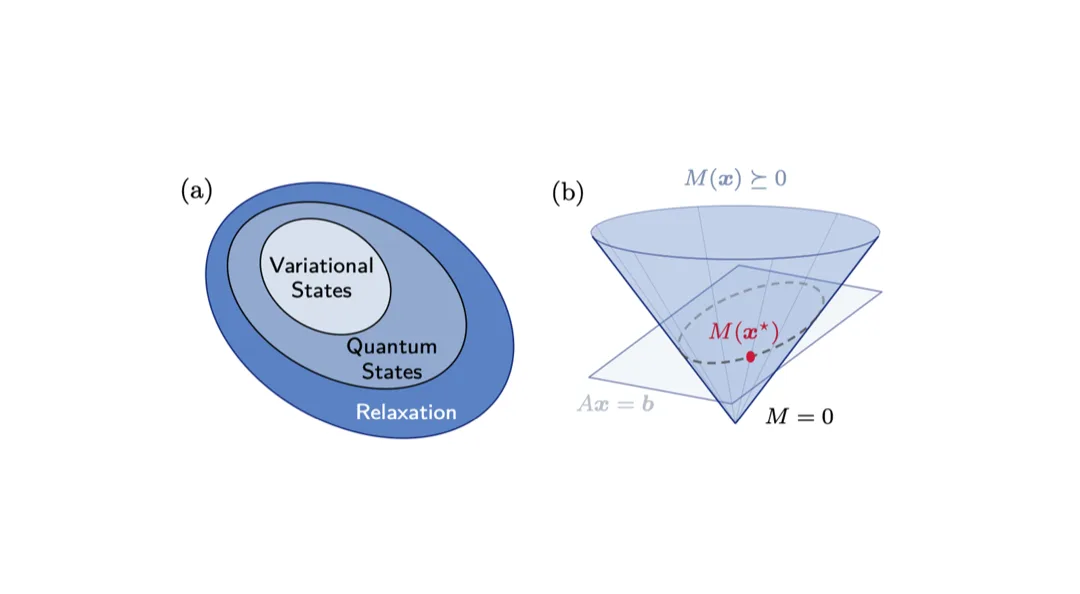
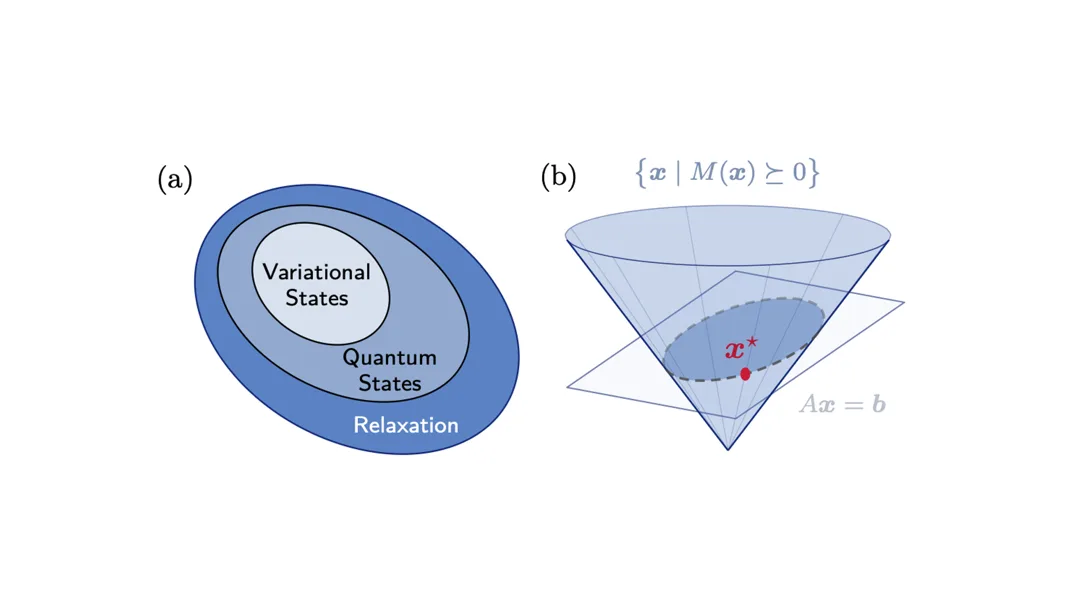
enhanced navigation.
- fixed the navigation bar at the top.
- added smooth section scrolling and animated mobile menu transitions.
- updated the research cover.

diff --git a/assets/js/navigation.js b/assets/js/navigation.js
@@ -1,0 +1,99 @@
+(function () {
+  var scrollAnimationFrame;
+
+  function setMenuOpen(isOpen) {
+    var links = document.getElementById("myLinks");
+    var toggle = document.querySelector(".topnav .icon");
+
+    if (isOpen) {
+      links.style.setProperty("--topnav-menu-height", links.scrollHeight + "px");
+    }
+
+    links.classList.toggle("is-open", isOpen);
+    toggle.setAttribute("aria-expanded", String(isOpen));
+  }
+
+  function toggleNavigationMenu() {
+    var links = document.getElementById("myLinks");
+    setMenuOpen(!links.classList.contains("is-open"));
+  }
+
+  function navigationOffset() {
+    return document.querySelector(".topnav").getBoundingClientRect().bottom;
+  }
+
+  function collapsedNavigationOffset() {
+    var styles = getComputedStyle(document.documentElement);
+
+    return parseFloat(styles.getPropertyValue("--topnav-bar-height")) +
+      parseFloat(styles.getPropertyValue("--topnav-inset"));
+  }
+
+  function scrollToTarget(target, offset, animate) {
+    var startY = window.scrollY;
+    var targetY = startY + target.getBoundingClientRect().top - offset;
+
+    if (!animate) {
+      window.scrollTo(0, targetY);
+      return;
+    }
+
+    var distance = targetY - startY;
+    var duration = 500;
+    var startTime;
+
+    cancelAnimationFrame(scrollAnimationFrame);
+
+    function step(timestamp) {
+      if (!startTime) startTime = timestamp;
+      var progress = Math.min((timestamp - startTime) / duration, 1);
+      var easedProgress = 1 - Math.pow(1 - progress, 4);
+
+      window.scrollTo(0, startY + distance * easedProgress);
+      if (progress < 1) scrollAnimationFrame = requestAnimationFrame(step);
+    }
+
+    scrollAnimationFrame = requestAnimationFrame(step);
+  }
+
+  window.addEventListener("resize", function () {
+    if (window.innerWidth > 960) setMenuOpen(false);
+  });
+
+  window.addEventListener("load", function () {
+    var target = document.getElementById(window.location.hash.slice(1));
+
+    if (window.location.hash && target) {
+      requestAnimationFrame(function () {
+        scrollToTarget(target, navigationOffset(), false);
+      });
+    }
+
+    window.addEventListener("scroll", function () {
+      if (window.scrollY <= 1 && window.location.hash) {
+        history.replaceState(null, "", window.location.pathname + window.location.search);
+      }
+    }, { passive: true });
+  });
+
+  document.querySelector(".topnav .icon").addEventListener("click", toggleNavigationMenu);
+
+  document.addEventListener("click", function (event) {
+    var link = event.target.closest(".topnav a.normal");
+    if (!link || !link.hash || link.origin !== window.location.origin ||
+        event.defaultPrevented || event.button !== 0 || event.metaKey ||
+        event.ctrlKey || event.shiftKey || event.altKey) return;
+
+    var target = document.getElementById(link.hash.slice(1));
+    if (!target) return;
+
+    event.preventDefault();
+    setMenuOpen(false);
+    if (window.matchMedia("(prefers-reduced-motion: reduce)").matches) {
+      scrollToTarget(target, collapsedNavigationOffset(), false);
+    } else {
+      scrollToTarget(target, collapsedNavigationOffset(), true);
+    }
+    history.pushState(null, "", link.hash);
+  });
+})();

diff --git a/assets/css/navigation.css b/assets/css/navigation.css
@@ -1,11 +1,23 @@
+:root {
+    --topnav-bar-height: 46px;
+    --topnav-inset: 0px;
+  }
+
+  body {
+    padding-top: calc(var(--topnav-bar-height) + var(--topnav-inset));
+  }
+
 /* Add a black background color to the top navigation */
 .topnav {
-    background-color: #002D72;
+    background: #002D72;
     overflow: hidden;
-    position: relative;
-    z-index:999;
+    position: fixed;
+    top: 0;
+    right: 0;
+    left: 0;
+    z-index: 999;
     text-align: left;
-    width: 100%;
+    width: auto;
     margin: 0 auto;
   }
 
@@ -127,16 +139,45 @@
       }
    }
 
+   @media screen and (max-width: 960px) {
+    :root {
+        --topnav-bar-height: 44px;
+        --topnav-inset: 15px;
+      }
+
+    .topnav {
+        padding: var(--topnav-inset) var(--topnav-inset) 0;
+        background:
+            linear-gradient(#002D72 0 0) content-box,
+            #fff;
+        background-clip: content-box, border-box;
+      }
+   }
+
    @media print, screen and (max-width: 960px) { 
     .topnav #myLinks {
-        display: none;
+        display: block;
         float: none;
         margin-right:0;
         width:100%;
+        max-height: 0;
+        opacity: 0;
+        overflow: hidden;
+        visibility: hidden;
+        transition:
+            max-height 0.25s ease,
+            opacity 0.2s ease,
+            visibility 0s linear 0.25s;
       }
 
       .topnav #myLinks.is-open {
-        display: block;
+        max-height: var(--topnav-menu-height);
+        opacity: 1;
+        visibility: visible;
+        transition:
+            max-height 0.25s ease,
+            opacity 0.2s ease,
+            visibility 0s;
       }
 
       .topnav a.normal {
@@ -155,8 +196,8 @@
         font-size: 17px;
         position: absolute;
         float: right;
-        right: 0;
-        top: 0;
+        right: var(--topnav-inset);
+        top: var(--topnav-inset);
         margin-right:5%;
         cursor: pointer;
       }
@@ -176,3 +217,20 @@
         margin-right:0;
       }
    }
+
+  @media screen and (max-width: 960px) and (prefers-reduced-motion: reduce) {
+    .topnav #myLinks,
+    .topnav #myLinks.is-open {
+        transition: none;
+      }
+  }
+
+  @media print {
+    body {
+        padding-top: 0.4in;
+      }
+
+    .topnav {
+        position: static;
+      }
+  }

diff --git a/_layouts/homepage.html b/_layouts/homepage.html
@@ -34,25 +34,7 @@
     <link rel="stylesheet" href="./assets/css/publications-no-dark-mode.css">
     {% endif %}
     <link rel="stylesheet" href="./assets/css/navigation.css">
-
-    <script>
-      function setMenuOpen(isOpen) {
-        var links = document.getElementById("myLinks");
-        var toggle = document.querySelector(".topnav .icon");
-
-        links.classList.toggle("is-open", isOpen);
-        toggle.setAttribute("aria-expanded", String(isOpen));
-      }
-
-      function toggleNavigationMenu() {
-        var links = document.getElementById("myLinks");
-        setMenuOpen(!links.classList.contains("is-open"));
-      }
-
-      window.addEventListener("resize", function () {
-        if (window.innerWidth > 960) setMenuOpen(false);
-      });
-    </script>
+    <script src="./assets/js/navigation.js" defer></script>
 
   </head>
   <body>
@@ -67,7 +49,7 @@
       {% include navigation.md %}
       </div>
 
-      <button type="button" class="icon" onclick="toggleNavigationMenu()" aria-label="Toggle navigation" aria-controls="myLinks" aria-expanded="false">
+      <button type="button" class="icon" aria-label="Toggle navigation" aria-controls="myLinks" aria-expanded="false">
         <i class="fa fa-bars" aria-hidden="true"></i>
       </button>
       

diff --git a/index.md b/index.md
@@ -2,8 +2,6 @@
 layout: homepage
 ---
 
-<h1 id="about-me"></h1>
-
 ## About Me
 
 <div style="text-align: center;">
